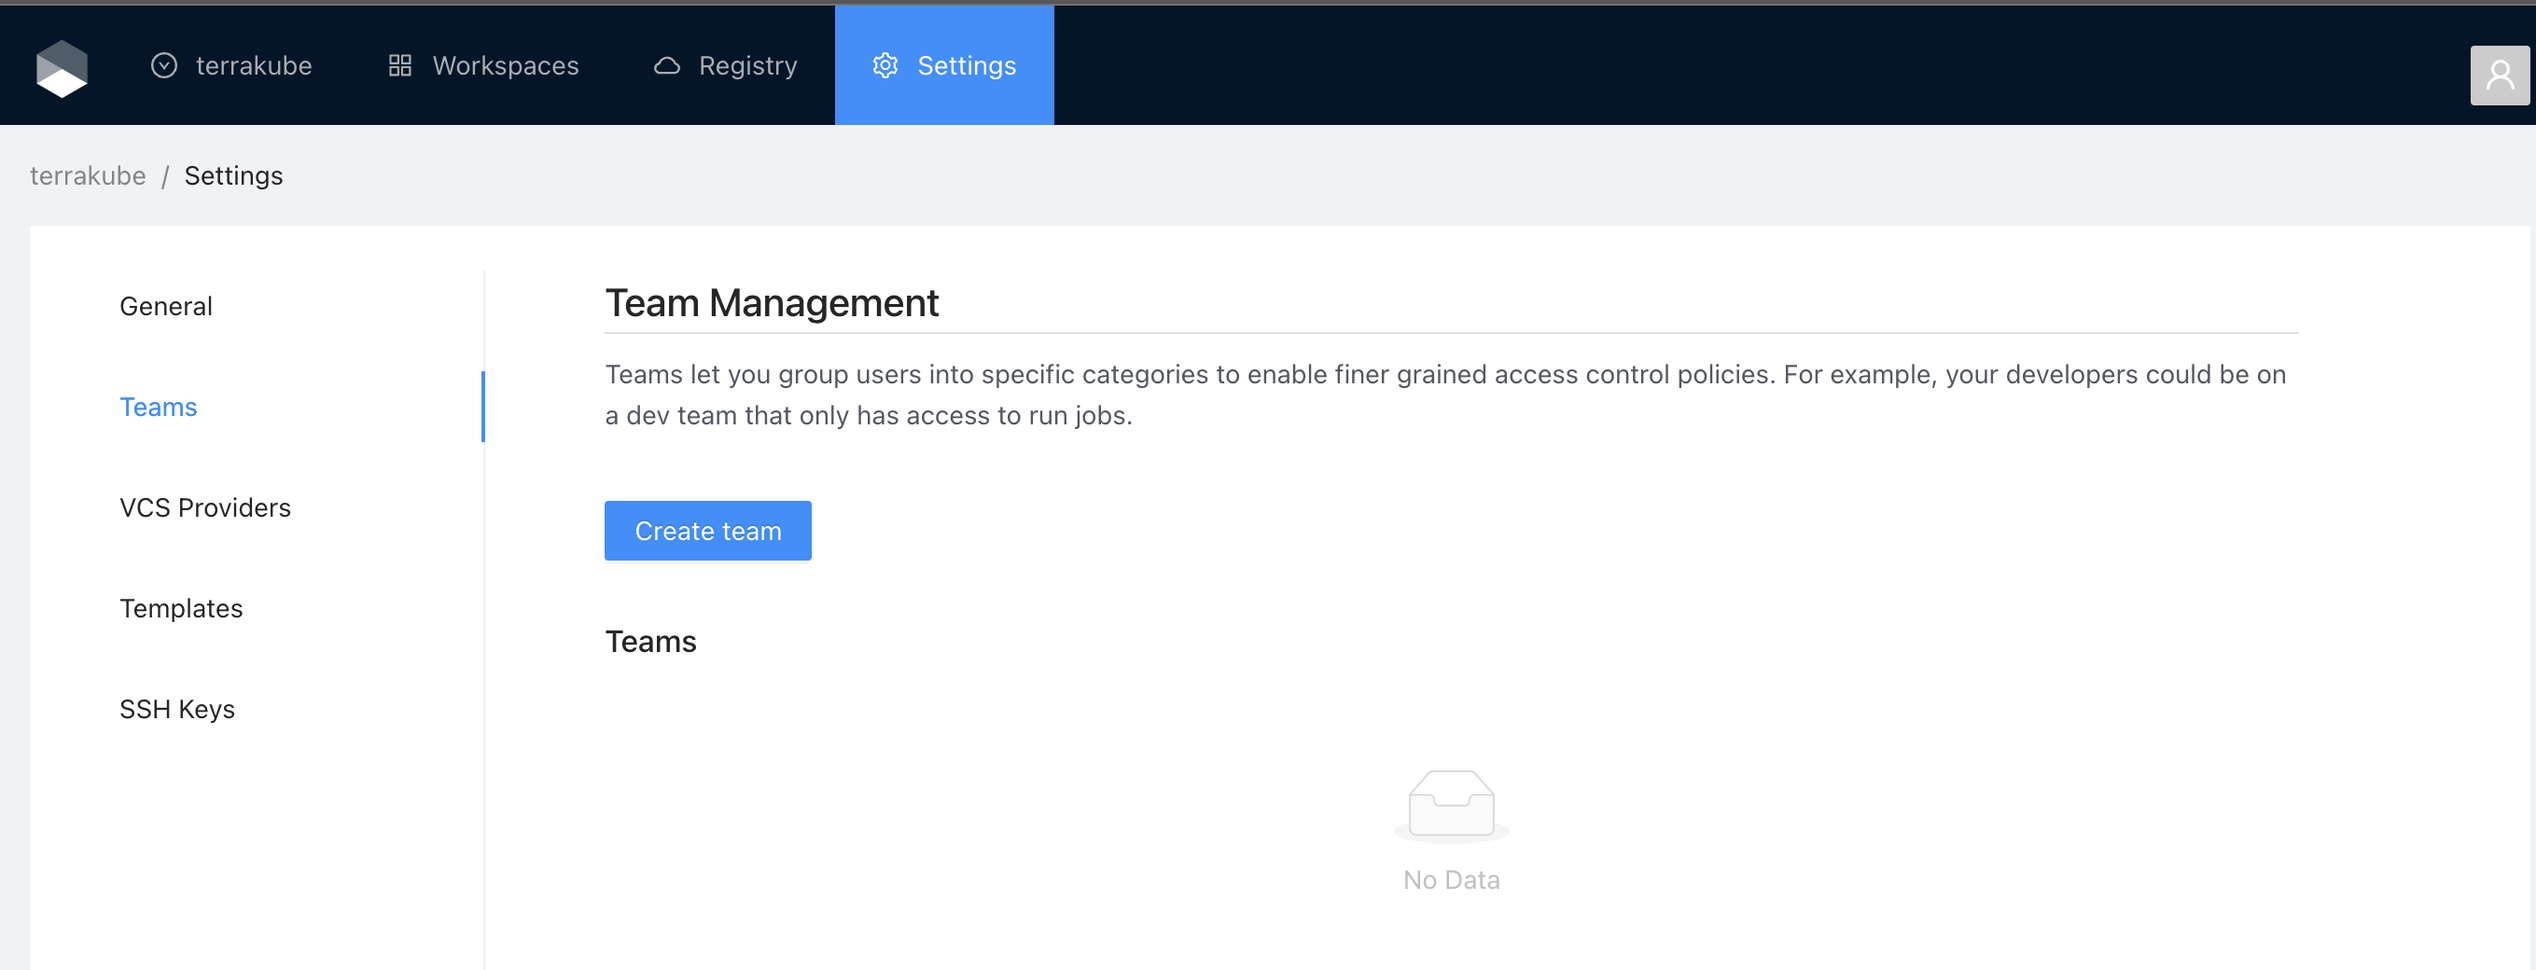
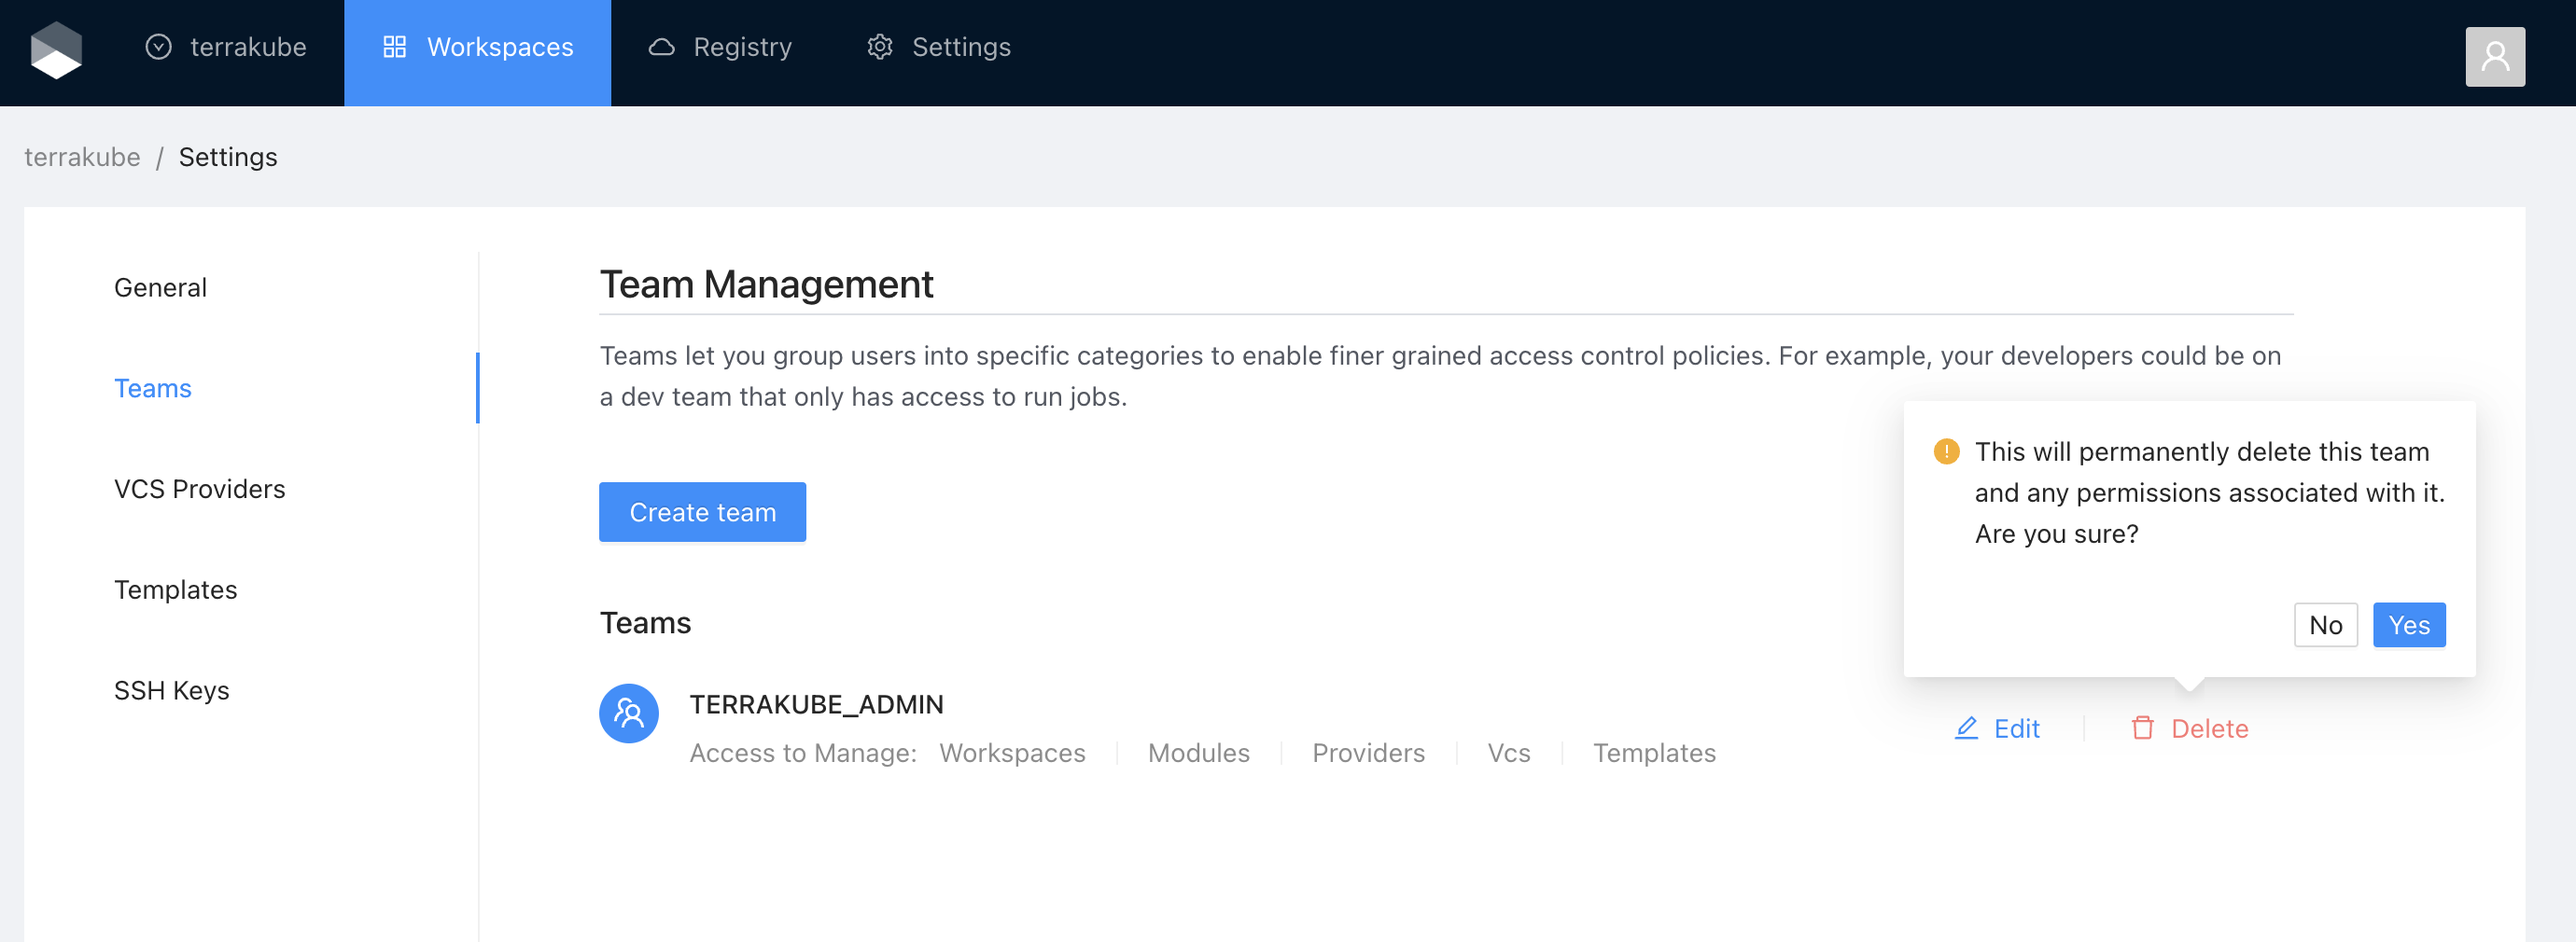
GitBook: [#95] Complete Team Management

diff --git a/getting-started/user-guide/organizations/team-management.md b/getting-started/user-guide/organizations/team-management.md
@@ -6,7 +6,7 @@ In Terrakube you can define user permissions inside your organization using team
 
 Once you are in the desired organization, click the **Settings** button and then in the left menu select the **Teams** option.&#x20;
 
-<figure><img src="../../../.gitbook/assets/image (39).png" alt=""><figcaption></figcaption></figure>
+<figure><img src="../../../.gitbook/assets/image (39) (2).png" alt=""><figcaption></figcaption></figure>
 
 Click the **Create team** button
 
@@ -31,3 +31,18 @@ Finally click the **Save team** button and the team will be created
 
 Now all the users inside the team will be able to manage the specific resources within the organization based on the permissions you grantted.
 
+### Edit a Team
+
+Click the **Edit** button next to the team you want to edit
+
+<figure><img src="../../../.gitbook/assets/image (53).png" alt=""><figcaption></figcaption></figure>
+
+Change the permissions you need and click the **Save team** button
+
+<figure><img src="../../../.gitbook/assets/image (39).png" alt=""><figcaption></figcaption></figure>
+
+### Delete a Team
+
+Click the **Delete** button next to the team you want to delete, and then click the Yes button to confirm the deletion. Please take in consideration the deletion is irreversible
+
+<figure><img src="../../../.gitbook/assets/image (41).png" alt=""><figcaption></figcaption></figure>
